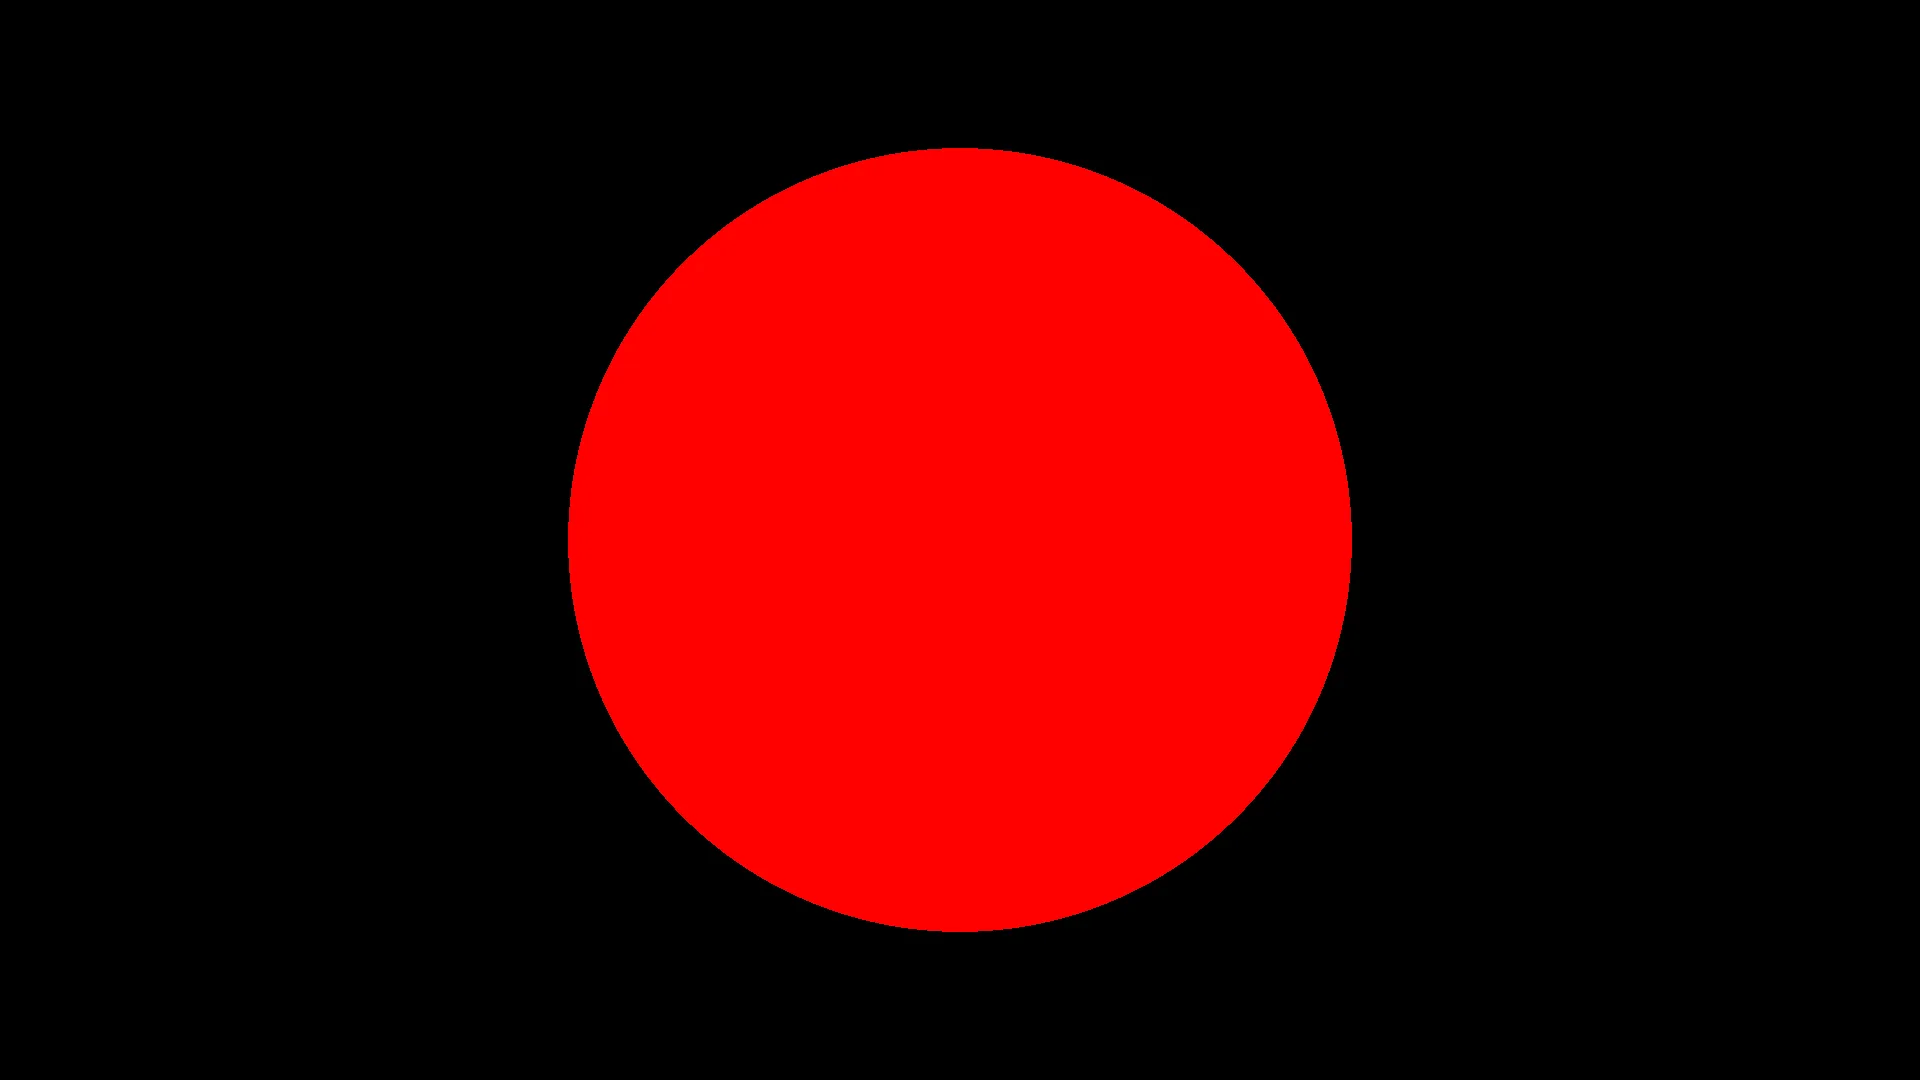
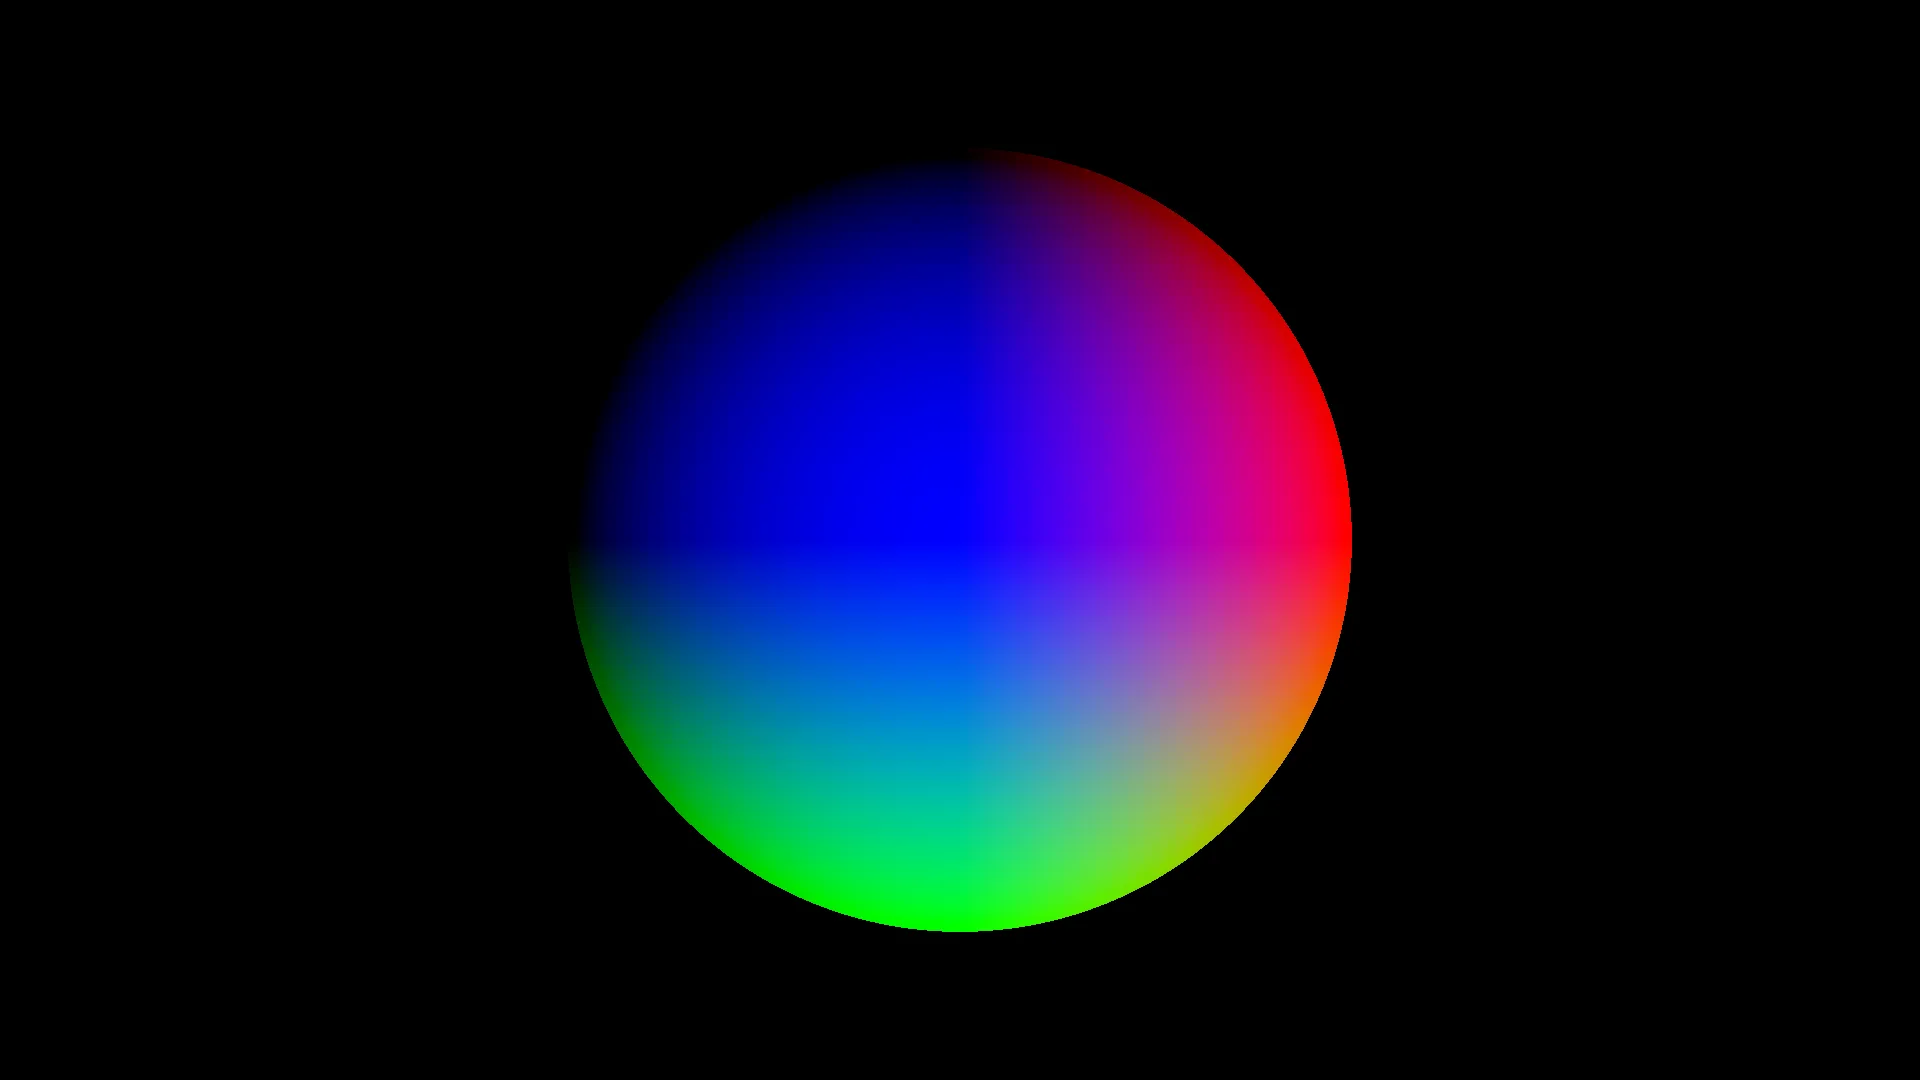
✨ Shading with surface normals

Changed region(s): [[0.2812, 0.1222, 0.7188, 0.8861]]

diff --git a/src/body/sphere.rs b/src/body/sphere.rs
@@ -10,12 +10,16 @@ pub struct Sphere {
 }
 
 impl Sphere {
-    pub fn hit_by(&self, ray: &Ray) -> bool {
+    pub fn hit_by(&self, ray: &Ray) -> Option<DVec3> {
         let oc = ray.origin - self.center;
         let a = ray.direction.dot(ray.direction);
         let b = 2.0 * oc.dot(ray.direction);
         let c = oc.dot(oc) - self.radius * self.radius;
         let discriminant = b * b - 4.0 * a * c;
-        discriminant > 0.0
+        if discriminant > 0.0 {
+            Some((ray.at((-b - discriminant.sqrt()) / (2.0 * a)) - self.center).normalize())
+        } else {
+            None
+        }
     }
 }

diff --git a/src/tracer.rs b/src/tracer.rs
@@ -31,8 +31,13 @@ pub fn render(scene: &Scene, into: &mut RgbaImage) {
 #[inline]
 fn trace_ray(ray: &Ray, in_: &Scene) -> Rgba<u8> {
     for body in &in_.bodies {
-        if body.hit_by(ray) {
-            return Rgba::from([255, 0, 0, 255]);
+        if let Some(normal) = body.hit_by(ray) {
+            return Rgba::from([
+                (normal.x * 255.0) as u8,
+                (normal.y * 255.0) as u8,
+                (normal.z * 255.0) as u8,
+                255,
+            ]);
         }
     }
     Rgba::from([0, 0, 0, 255])

diff --git a/src/body.rs b/src/body.rs
@@ -1,5 +1,6 @@
 pub mod sphere;
 
+use glam::DVec3;
 use serde::Deserialize;
 
 use crate::body::sphere::Sphere;
@@ -12,7 +13,7 @@ pub enum Body {
 }
 
 impl Body {
-    pub fn hit_by(&self, ray: &Ray) -> bool {
+    pub fn hit_by(&self, ray: &Ray) -> Option<DVec3> {
         match self {
             Self::Sphere(sphere) => sphere.hit_by(ray),
         }

diff --git a/src/ray.rs b/src/ray.rs
@@ -4,3 +4,9 @@ pub struct Ray {
     pub origin: DVec3,
     pub direction: DVec3,
 }
+
+impl Ray {
+    pub fn at(&self, t: f64) -> DVec3 {
+        self.origin + self.direction * t
+    }
+}
